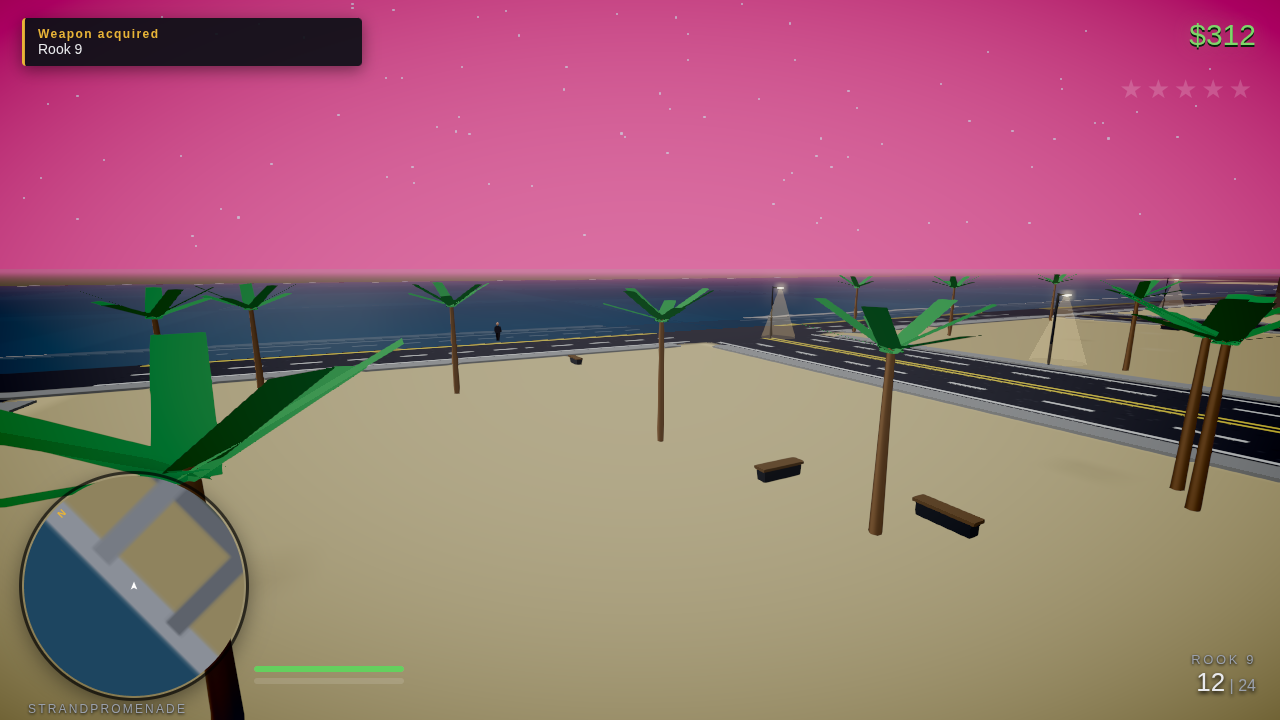
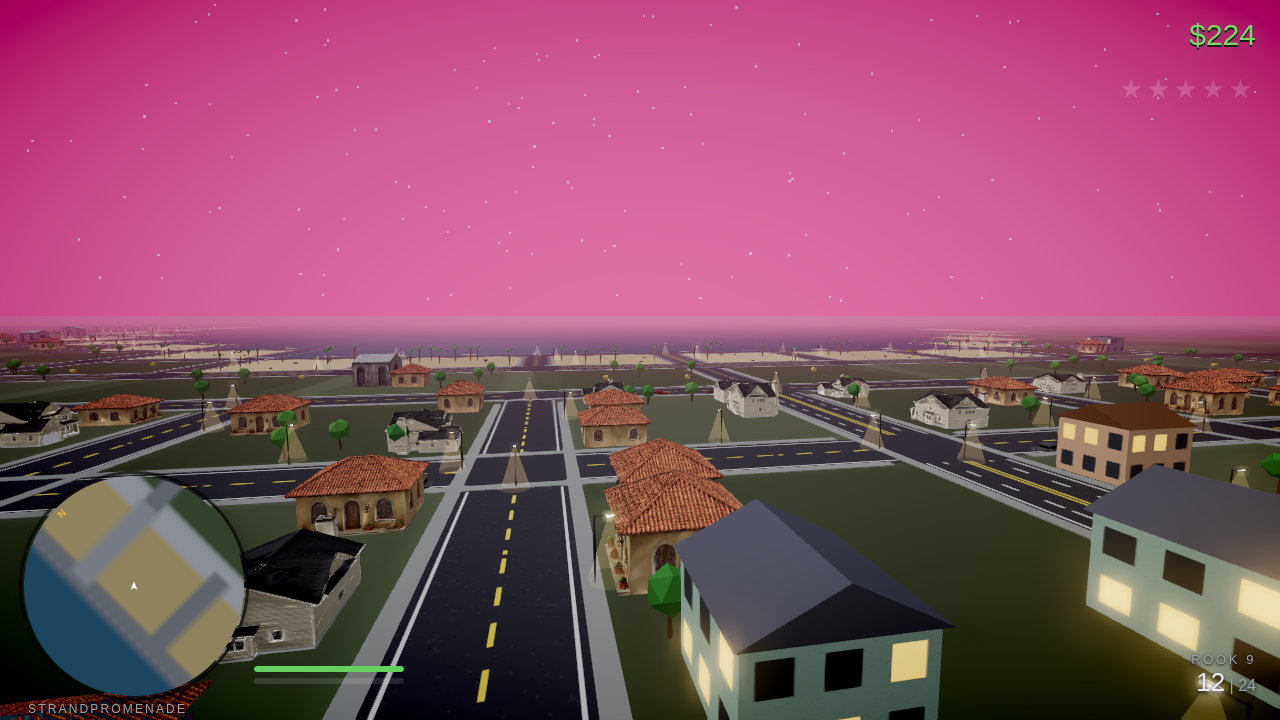
Higgsfield city live: generated architecture instanced across the map + animated NPCs
- 7 generated building GLBs (suburban house, bungalow, brick tenement, glass
  tower, concrete office, corner store, harbor warehouse) wired through the
  manifest and instanced per archetype over the 2.9 km map; hash-stable
  procedural share kept for lit night windows
- Animated pedestrians live: Meshy auto-rig walk + idle clips (3d_rigging),
  AnimationMixer crossfade by speed, ragdoll swap on death
- Orientation pass (front faces +Z), ASSETS.md v2 inventory, README gallery
  refreshed with the generated-city screenshots

Claude-Session: https://claude.ai/code/session_019wdBQ8zkNKRCx3oK6KoLLV

diff --git a/ASSETS.md b/ASSETS.md
@@ -6,6 +6,29 @@ it matters most. `client/src/core/assets.js` loads anything listed in
 `client/public/models/manifest.json` and transparently falls back to the
 procedural builder per asset.
 
+## Generated set (v2) — the city itself
+
+Batch 2 replaced the procedural building boxes with a Higgsfield-generated
+architecture library, instanced across every chunk by archetype
+(`client/src/world/glbBuildings.js`):
+
+| Asset key | Drives archetypes | Look |
+| --- | --- | --- |
+| `building-tower` | glass ×4 | 40-story blue curtain-wall skyscraper |
+| `building-office` | office ×3, concrete ×2, art deco, civic | 12-story precast office |
+| `building-apartment` | brick ×3, rowhouse | weathered brick tenement, fire escapes, awnings |
+| `building-shop` | shopfront | corner store, glass front + awning |
+| `building-house-a` | house A/C | two-story suburban, porch + garage |
+| `building-house-b` | house B/D | stucco Mediterranean bungalow |
+| `building-warehouse` | warehouse ×2 | rusty corrugated harbor shed |
+| `ped-civilian-anim` | civilian NPCs | **skinned walk cycle** (Casual_Walk, Meshy auto-rig) |
+| `ped-civilian-idle` | civilian NPCs | idle clip, crossfaded by speed |
+
+A hash-stable share of lots (40% downtown, 15% low-rise) intentionally keeps
+the procedural meshes so the night skyline still has emissive lit windows —
+generated GLB textures are unlit at night. Tune in `glbBuildings.js`
+(`PROCEDURAL_SHARE`).
+
 ## Generated set (v1)
 
 Pipeline per asset: `generate_image` (nano-banana-pro concept, clean studio

diff --git a/README.md b/README.md
@@ -18,7 +18,10 @@ trademarks, vehicle designs, logos or music.
 | :--: | :--: |
 | the Strandpromenade over Neustadt Bay | Innenstadt — setback towers & avenues |
 
-*In-engine captures (headless). The hero cars are Higgsfield-generated GLBs.*
+*In-engine captures (headless). Cars, buildings and the animated pedestrians
+are Higgsfield-generated GLBs — houses, tenements, offices and towers are
+instanced from the generated architecture library across the whole 2.9 km map
+(see ASSETS.md).*
 
 **Also in this repo:** `unreal/` — a UE **5.7 C++ project starter** (Lumen/Nanite/TSR
 configured, city-JSON importer, ChaosVehicles pawn, wanted subsystem) for the
